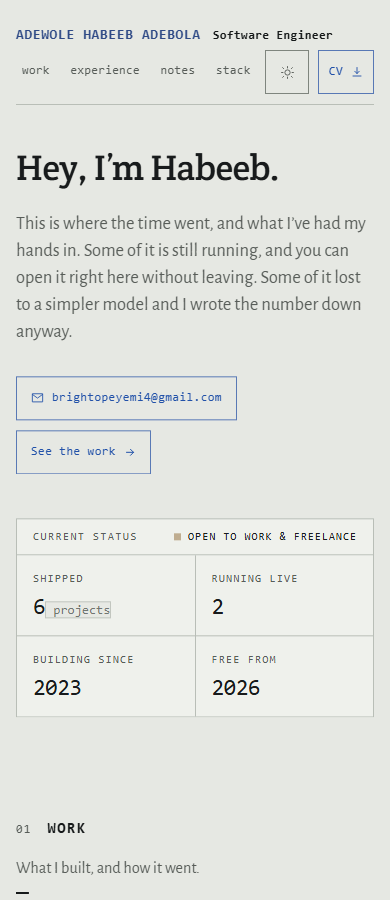
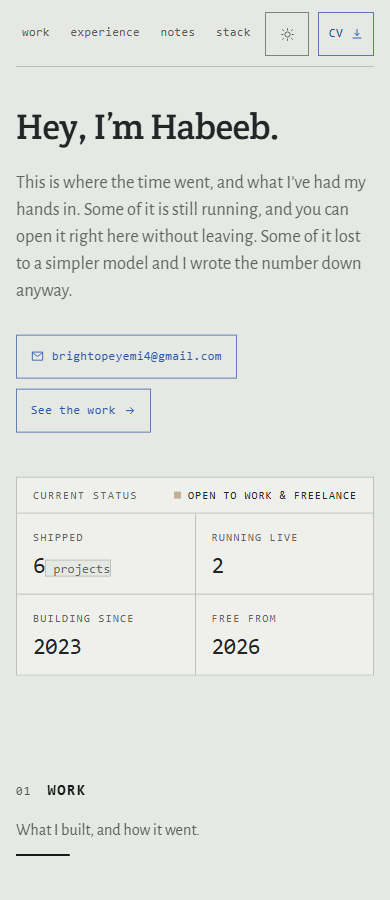
[phase-5] the wordmark waits until you have scrolled past the greeting
The h1 says "Hey, I'm Habeeb." directly under the bar, so at the top of
the page the masthead was the name twice inside about 100px. It now
fades in only once the bar is stuck: the h1 introduces him, and the
wordmark picks the name up after you have gone past.

Desktop hides it with opacity rather than display on purpose. The space
stays reserved, so navigation sits at exactly the same coordinates stuck
or not and the name arrives without shoving anything sideways —
measured, nav spans 819 to 1202 in both states.

Mobile drops it outright instead. There, opacity would still reserve a
whole wrapped row for something invisible, which is ~110px of an 844px
screen spent on nothing.

Side effect worth naming: the role line is gone from the masthead
altogether, since it only ever showed at the top. That sits fine with
the "don't frame it yet" decision, and Software Engineer is still in the
title and the meta description.

diff --git a/src/components/Masthead.css b/src/components/Masthead.css
@@ -26,12 +26,28 @@
   box-shadow: 0 6px 18px -14px rgb(0 0 0 / 0.55);
 }
 
+/* The h1 says "Hey, I'm Habeeb." directly below this bar, so at the top of the
+   page the wordmark would be the name twice in about 100px. It fades in only
+   once you have scrolled past the introduction.
+
+   Hidden with opacity rather than display, deliberately: the space stays
+   reserved, so the navigation sits in exactly the same place stuck or not and
+   the name arrives without shoving anything sideways. */
 .sig {
   display: flex;
   align-items: baseline;
   gap: var(--s3);
   flex-wrap: wrap;
   min-width: 0;
+  opacity: 0;
+  transform: translateY(-4px);
+  transition:
+    opacity var(--t-base) var(--ease-out),
+    transform var(--t-base) var(--ease-out);
+}
+.masthead.stuck .sig {
+  opacity: 1;
+  transform: none;
 }
 .sig .nm {
   font-size: 0.875rem;
@@ -50,9 +66,9 @@
   margin-right: var(--s3);
 }
 
-/* Secondary identity drops away once stuck — the name is enough after the
-   first screen, and the space belongs to navigation. */
-.masthead.stuck .role {
+/* Secondary identity never appears in the bar now: by the time the name fades
+   in, the role has been on screen and scrolled past. */
+.sig .role {
   display: none;
 }
 
@@ -107,8 +123,9 @@
 
 /* ---------------------------------------------------------------------------
    Mobile: the bar wraps to two rows, which is ~110px of a 844px screen held
-   permanently. Once stuck, the name row goes and navigation stays — you do
-   not need to be told his name twice, you need to be able to move.
+   permanently. The name is dropped outright rather than faded, because
+   opacity would still reserve that whole row for something invisible. You do
+   not need to be told his name twice; you need to be able to move.
    --------------------------------------------------------------------------- */
 @media (max-width: 640px) {
   .masthead {
@@ -121,7 +138,7 @@
   .sig .role::before {
     display: none;
   }
-  .masthead.stuck .sig {
+  .sig {
     display: none;
   }
 

diff --git a/STATE.md b/STATE.md
@@ -272,6 +272,16 @@ Move slowly and deliberately — pointer jitter reads as nervous on a loop.
     `data-theme` scope), both theme scopes present, reduced-motion covers `*, *::before,
     *::after`. **Session 3's a11y pass must re-measure in a real browser** — nothing has
     confirmed the React DOM renders these at the right sizes.
+- **Masthead wordmark appears only once stuck** (2026-09-01). The h1 now reads
+  "Hey, I'm Habeeb." directly below the bar, so at the top of the page the
+  wordmark was the name twice in ~100px. Desktop hides it with **opacity, not
+  display** — the space stays reserved so navigation does not shift when it
+  fades in. Mobile drops it with `display: none` in both states, because an
+  invisible row would still cost ~110px of an 844px screen.
+  ⚠ **Side effect: the role line is gone from the masthead entirely.** It only
+  ever showed at the top, which is now hidden. That is consistent with the
+  "don't frame it yet" decision, and "Software Engineer" still sits in the
+  `<title>` and the meta description.
 - **Interstitial fix — sticky masthead.** Requested before Session 3; also closes the
   critique's mobile red flag ("no sticky nav, no back-to-top" on a 10,000px page).
   `position: sticky` with an IntersectionObserver sentinel rather than a scroll listener.
